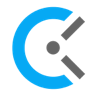
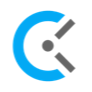
Squashed commit of the following:
commit c672818259a59cd73f07c5f4d7d6e2e33379d2c6
Author: Tyme Dev <dev@tyme-app.com>
Date:   Wed Oct 2 12:19:27 2024 +0200

    updasted internal types

commit 5bbb85cbdc7fb55624fce0dfd09f3a25999d6624
Author: Tyme Dev <dev@tyme-app.com>
Date:   Wed Oct 2 12:10:32 2024 +0200

    bumped version

commit 462f3fe0818e50be303fff62fe5f1ac5d33ebc26
Author: Tyme Dev <dev@tyme-app.com>
Date:   Wed Oct 2 12:09:02 2024 +0200

    updated icons and renamed lexoffice > Lexware Office

commit 335bcca0137ab6c2728f52b7bb5c28c202616069
Author: Tyme Dev <dev@tyme-app.com>
Date:   Mon Sep 30 12:21:39 2024 +0200

    external link

commit f14b525c0182c1e35fd4a51dc2bb165b7c23a3e7
Author: Tyme Dev <dev@tyme-app.com>
Date:   Mon Sep 30 12:09:02 2024 +0200

    added internal links / types

commit 9f1c979188f7c6271243d6c5f51115c958cb5855
Merge: 10c32b8 c045d63
Author: Tyme Dev <dev@tyme-app.com>
Date:   Mon Sep 30 12:07:53 2024 +0200

    Merge branch 'main' into staging

commit 10c32b8a6ff85bb628e6cae2a65926465180c871
Author: Tyme Dev <dev@tyme-app.com>
Date:   Mon Sep 30 10:01:49 2024 +0200

    applied formatter

commit bb448cfc5ca760b51a1d20da953c6259efa824e5
Author: Tyme Dev <dev@tyme-app.com>
Date:   Mon Sep 30 10:00:07 2024 +0200

    got rid of old name & summary properties

commit bdfbda9b7cc5d42859292f046c9dcf382ad609d5
Author: Lars <t1xx3n@gmail.com>
Date:   Mon Sep 30 09:45:55 2024 +0200

    feat: Jira import plugin (#11)

    * feat: add jira import plugin
[…]

diff --git a/LexofficeInvoices/README.md b/LexofficeInvoices/README.md
@@ -1,6 +1,6 @@
 # lexoffice Invoices
 
-This plugin lets you export your recorded times to [lexoffice](https://www.lexoffice.de).
+This plugin lets you export your recorded times to [Lexware Office](https://office.lexware.de).
 You can view a preview of the invoice before actually sending it to Lexoffice.
 
-The plugin uses the [lexoffice API](https://developers.lexoffice.io/docs/) to send the data to lexoffice.
+The plugin uses the [Lexware Office API](https://developers.lexoffice.io/docs/) to send the data to lexoffice.

diff --git a/README.md b/README.md
@@ -33,7 +33,7 @@ This file defines the type, version, compatibility and entry point for the plugi
   "type": "[export|import]",
   "author": "John Doe",
   "authorUrl": "https://www.tyme-app.com",
-  "icon": "some_icon96x96.png",
+  "icon": "some_icon92x92.png",
   "scriptName": "script.js",
   "scriptMain": "createInvoice()", // the method to call when exporting
   "scriptPreview": "generatePreview()", // the method to call when generating a preview (HTML is expected in return), only export plugins
